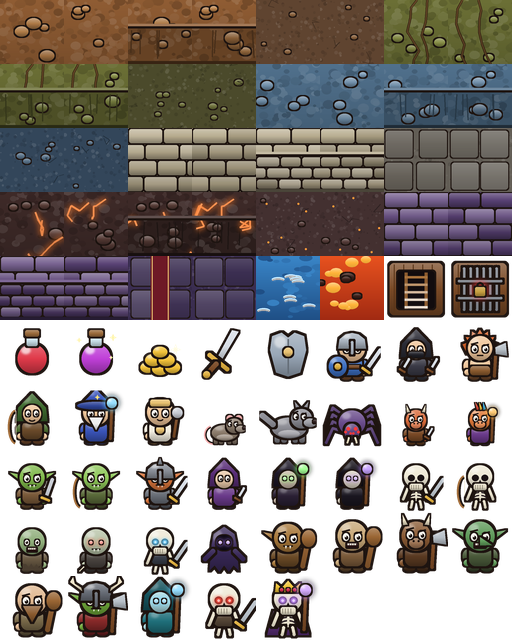
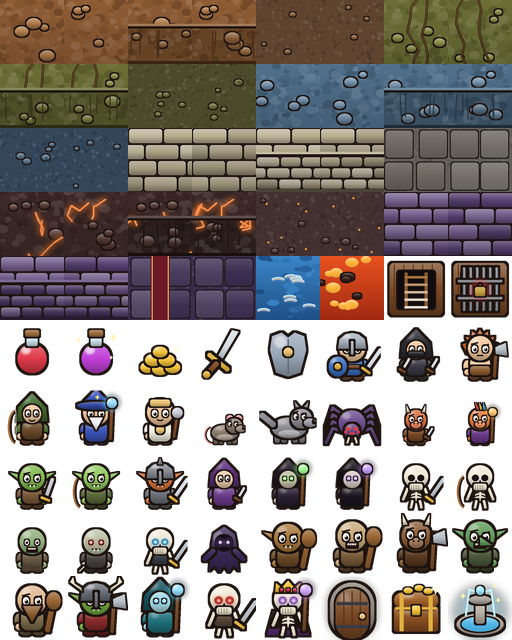
R-27, D-20: hidden sanctuaries with treasure/potions, safe from monsters, heal inside
- DungeonGen carves 0-3 secret rooms (floors 1-19) behind a secret door
- Find by bumping, passive Perception, or Wait to search; draft hint nearby
- Monsters can't enter or attack inside; hero heals 10%/turn, poison ends;
  no attacks or harmful spells from inside
- Treasure chest item; door, chest and fountain tiles; ASCII glyphs
- Saved with the run; testing.html section Q; README

Claude-Session: https://claude.ai/code/session_019fFyhXu1pJcYs3JJHabAbh

Changed region(s): [[0.625, 0.9062, 1.0, 1.0]]

diff --git a/testing.html b/testing.html
@@ -100,7 +100,7 @@
 
 <script>
 // TILE_ATLAS:BEGIN (written by tools/make_tiles.py - tile name -> atlas index)
-window.TILE_ATLAS = {cell: 64, cols: 8, width: 512, height: 640, index: {"cellars_top_a": 0, "cellars_top_b": 1, "cellars_face_a": 2, "cellars_face_b": 3, "cellars_floor_a": 4, "cellars_floor_b": 5, "warrens_top_a": 6, "warrens_top_b": 7, "warrens_face_a": 8, "warrens_face_b": 9, "warrens_floor_a": 10, "warrens_floor_b": 11, "caverns_top_a": 12, "caverns_top_b": 13, "caverns_face_a": 14, "caverns_face_b": 15, "caverns_floor_a": 16, "caverns_floor_b": 17, "crypts_top_a": 18, "crypts_top_b": 19, "crypts_face_a": 20, "crypts_face_b": 21, "crypts_floor_a": 22, "crypts_floor_b": 23, "forge_top_a": 24, "forge_top_b": 25, "forge_face_a": 26, "forge_face_b": 27, "forge_floor_a": 28, "forge_floor_b": 29, "throne_top_a": 30, "throne_top_b": 31, "throne_face_a": 32, "throne_face_b": 33, "throne_floor_a": 34, "throne_floor_b": 35, "water": 36, "lava": 37, "stairs": 38, "sealed": 39, "potion": 40, "greater": 41, "gold": 42, "weapon": 43, "armor": 44, "hero_fighter": 45, "hero_rogue": 46, "hero_barbarian": 47, "hero_ranger": 48, "hero_wizard": 49, "hero_cleric": 50, "m_rat": 51, "m_wolf": 52, "m_spider": 53, "m_kobold": 54, "m_kobold_shaman": 55, "m_goblin": 56, "m_goblin_archer": 57, "m_hobgoblin": 58, "m_cult_acolyte": 59, "m_dark_adept": 60, "m_necromancer": 61, "m_skeleton": 62, "m_skeleton_archer": 63, "m_zombie": 64, "m_ghoul": 65, "m_wight": 66, "m_wraith": 67, "m_bugbear": 68, "m_ogre": 69, "m_minotaur": 70, "m_troll": 71, "m_giant": 72, "m_warchief": 73, "m_oracle": 74, "m_bone_warden": 75, "m_hollow_king": 76}};
+window.TILE_ATLAS = {cell: 64, cols: 8, width: 512, height: 640, index: {"cellars_top_a": 0, "cellars_top_b": 1, "cellars_face_a": 2, "cellars_face_b": 3, "cellars_floor_a": 4, "cellars_floor_b": 5, "warrens_top_a": 6, "warrens_top_b": 7, "warrens_face_a": 8, "warrens_face_b": 9, "warrens_floor_a": 10, "warrens_floor_b": 11, "caverns_top_a": 12, "caverns_top_b": 13, "caverns_face_a": 14, "caverns_face_b": 15, "caverns_floor_a": 16, "caverns_floor_b": 17, "crypts_top_a": 18, "crypts_top_b": 19, "crypts_face_a": 20, "crypts_face_b": 21, "crypts_floor_a": 22, "crypts_floor_b": 23, "forge_top_a": 24, "forge_top_b": 25, "forge_face_a": 26, "forge_face_b": 27, "forge_floor_a": 28, "forge_floor_b": 29, "throne_top_a": 30, "throne_top_b": 31, "throne_face_a": 32, "throne_face_b": 33, "throne_floor_a": 34, "throne_floor_b": 35, "water": 36, "lava": 37, "stairs": 38, "sealed": 39, "potion": 40, "greater": 41, "gold": 42, "weapon": 43, "armor": 44, "hero_fighter": 45, "hero_rogue": 46, "hero_barbarian": 47, "hero_ranger": 48, "hero_wizard": 49, "hero_cleric": 50, "m_rat": 51, "m_wolf": 52, "m_spider": 53, "m_kobold": 54, "m_kobold_shaman": 55, "m_goblin": 56, "m_goblin_archer": 57, "m_hobgoblin": 58, "m_cult_acolyte": 59, "m_dark_adept": 60, "m_necromancer": 61, "m_skeleton": 62, "m_skeleton_archer": 63, "m_zombie": 64, "m_ghoul": 65, "m_wight": 66, "m_wraith": 67, "m_bugbear": 68, "m_ogre": 69, "m_minotaur": 70, "m_troll": 71, "m_giant": 72, "m_warchief": 73, "m_oracle": 74, "m_bone_warden": 75, "m_hollow_king": 76, "door": 77, "chest": 78, "fountain": 79}};
 // TILE_ATLAS:END
 </script>
 <script>
@@ -244,6 +244,16 @@ const SECTIONS = [
     ["P-03", "D-17", "Unpack the tar.gz in a temp folder and list it.", "Contains hollow-king.x86_64 (executable), LICENSE, LICENSES.md, icon.png, README.txt; <code>./hollow-king.x86_64</code> starts the game."],
     ["P-04", "R-25", "Run <code>cd builds/release && sha256sum -c SHA256SUMS</code>.", "Both files report OK."],
     ["P-05", "R-25", "After uploading: open the itch.io page and the GitHub Release while signed out (private window).", "Both are free to download with no sign-in; the itch page shows Linux; the GitHub repo is public (C-15)."],
+  ]},
+  { key: "Q", title: "Q. Hidden sanctuaries (R-27)", intro: "0-3 per floor on floors 1-19. Some floors have none, so check a few floors.", items: [
+    ["Q-01", "D-20", "Walk along corridors and room edges on floors 1-4.", "Now and then the log says \"You feel a faint draft... wait (Space) to search.\" The wall itself looks like any other wall."],
+    ["Q-02", "D-20", "When you get the draft message, press Space a few times; on another one, walk straight into the walls nearby instead.", "Search shows a Perception roll; a success (or bumping the right wall) opens a wooden door with a gold glow behind it. A Cleric or Ranger often finds it just by standing next to it."],
+    ["Q-03", "R-27", "Go inside.", "Golden glowing floor, a fountain in the middle, and a treasure chest and/or potions. Log: \"You step into a sanctuary...\".", ["door", "fountain", "chest"]],
+    ["Q-04", "R-27", "Pick up the chest and potions.", "Chest gives a large pile of gold (25-50 x floor); potions add to your count."],
+    ["Q-05", "R-27", "Get hurt (or poisoned), lead monsters to the sanctuary and step inside; wait several turns.", "Monsters stop at the door, never attack or cast at you, and wander off. You heal about 10% of max HP per turn until full; poison ends."],
+    ["Q-06", "D-20", "From inside (or the doorway), try to attack, shoot, or cast an attack spell at a monster outside; then cast a healing spell.", "Attacks are refused (\"The sanctuary's peace...\") with no turn used; Healing Word / Cure Wounds still work."],
+    ["Q-07", "R-27", "Right-click the fountain, the glowing floor and the door; then save and quit inside a sanctuary and Continue.", "Each gets a description. After Continue the door is still open, the room still glows and healing still works."],
+    ["Q-08", "R-27", "Switch Display to ASCII.", "Door is +, fountain is {, chest is =, sanctuary floor is gold."],
   ]},
 ];
 

diff --git a/tools/make_tiles.py b/tools/make_tiles.py
@@ -412,6 +412,60 @@ def armor_icon():
     return img
 
 
+# --------------------------------------------------------------------------- sanctuaries (R-27)
+
+def secret_door():
+    """Arched wooden door set in a stone frame, warm light leaking round the edges."""
+    img = canvas()
+    g = Image.new("L", (S, S), 0)
+    ImageDraw.Draw(g).rounded_rectangle([30, 20, 226, 250], radius=90, fill=150)
+    img.paste(Image.new("RGBA", (S, S), C("ffd27a")), (0, 0), g.filter(ImageFilter.GaussianBlur(14)))
+    shape(img, "rrect", [40, 26, 216, 250], C("8a8378"), radius=88, w=OW)              # stone arch
+    shape(img, "rrect", [62, 50, 194, 250], C("7a4a26"), radius=66, w=7, gloss=0.2)     # door leaf
+    d = ImageDraw.Draw(img)
+    for x in (95, 128, 161):                                                           # planks
+        d.line([(x, 60), (x, 246)], fill=C("5a3518"), width=5)
+    for y in (104, 196):                                                               # iron bands
+        d.rectangle([66, y, 190, y + 12], fill=C("3a3a42"))
+    shape(img, "ellipse", [158, 150, 180, 172], C("e8c170"), w=5, gloss=0.6)          # ring handle
+    return img
+
+
+def chest():
+    img = canvas()
+    shape(img, "rrect", [40, 116, 216, 222], C("8a4f22"), radius=12, w=OW, gloss=0.2)   # body
+    shape(img, "rrect", [40, 66, 216, 128], C("a0602a"), radius=40, w=OW, gloss=0.4)    # lid
+    d = ImageDraw.Draw(img)
+    for x in (70, 186):                                                                # gold bands
+        d.rectangle([x - 8, 70, x + 8, 220], fill=C("e0b040"))
+    d.rectangle([44, 124, 212, 134], fill=C("e0b040"))
+    shape(img, "rrect", [112, 118, 144, 156], C("f2c23a"), radius=6, w=6, gloss=0.5)   # lock
+    for x, y in [(96, 58), (140, 48), (176, 60)]:                                       # coins peeking out
+        shape(img, "ellipse", [x - 18, y - 12, x + 18, y + 12], C("f2c23a"), w=5, gloss=0.6)
+    d = ImageDraw.Draw(img)
+    d.polygon([(206, 30), (212, 46), (228, 52), (212, 58), (206, 74), (200, 58), (184, 52), (200, 46)], fill=C("fffbe0"))
+    return img
+
+
+def fountain():
+    img = canvas()
+    g = Image.new("L", (S, S), 0)
+    ImageDraw.Draw(g).ellipse([20, 40, 236, 250], fill=140)
+    img.paste(Image.new("RGBA", (S, S), C("9fe8ff")), (0, 0), g.filter(ImageFilter.GaussianBlur(18)))
+    shape(img, "ellipse", [34, 150, 222, 236], C("a8a196"), w=OW)                    # basin rim
+    shape(img, "ellipse", [54, 162, 202, 222], C("4fb6e8"), w=5, top=0.4, bot=0.1)   # water
+    shape(img, "rrect", [110, 92, 146, 190], C("bdb6a8"), radius=10, w=7)            # pillar
+    shape(img, "ellipse", [84, 78, 172, 112], C("a8a196"), w=7)                      # top bowl
+    d = ImageDraw.Draw(img)
+    for x0, x1 in [(100, 70), (156, 186)]:                                             # water arcs
+        d.line([(128, 70), ((x0 + x1) // 2, 54), (x1, 160)], fill=C("bff0ff"), width=8, joint="curve")
+    shape(img, "ellipse", [112, 40, 144, 76], C("9fe8ff"), w=5, gloss=0.8)           # spout
+    for (x, y, r) in [(60, 80, 12), (200, 96, 10), (186, 40, 8)]:                      # sparkles
+        d.polygon([(x, y - r), (x + r * 0.3, y - r * 0.3), (x + r, y), (x + r * 0.3, y + r * 0.3),
+                   (x, y + r), (x - r * 0.3, y + r * 0.3), (x - r, y), (x - r * 0.3, y - r * 0.3)], fill=C("fff3b0"))
+    return img
+
+
 # --------------------------------------------------------------------------- characters
 
 def feet(img, col, y=212, spread=26):
@@ -815,6 +869,9 @@ def main():
         add(f"hero_{cls}", resized(hero(cls), 0.9))
     for key, img in monsters().items():
         add(f"m_{key}", img)
+    add("door", secret_door())      # R-27
+    add("chest", chest())
+    add("fountain", fountain())
 
     rows = (len(TILES) + COLS - 1) // COLS
     atlas = Image.new("RGBA", (COLS * CELL, rows * CELL), (0, 0, 0, 0))

diff --git a/claude-requirements.md b/claude-requirements.md
@@ -54,6 +54,7 @@ A roguelike game for **Linux desktop** (D-14; originally planned for Google Play
 | R-24 | Installable on any x86_64 Linux distro that has Flatpak, with its dependencies installed automatically | Done: built and played on Jim's Fedora machine 2026-11-23 | Single file `hollow-king.flatpak`; installing it pulls the Freedesktop runtime from Flathub (D-16). From B-11. |
 | R-25 | Free public release: downloadable at no cost from itch.io and GitHub Releases | In progress: licences and `tools/build.sh release` in repo; first upload pending | Two downloads per version: `hollow-king-<ver>-linux-x86_64.tar.gz` (plain binary) and `hollow-king-<ver>.flatpak`, plus `SHA256SUMS` (D-17). |
 | R-26 | Background music in a cheesy, 90s General-MIDI style | Built; awaiting Jim's playtest | Asked for by Jim 2026-11-23. A looping track for the title screen, one per area, and a boss track. Music on/off and volume in Settings; `M` toggles it. See 5.8, D-18. |
+| R-27 | Hidden sanctuaries: 0-3 secret rooms per floor holding treasure and/or healing potions; monsters can't enter them and the hero heals inside | Built; awaiting Jim's playtest | Asked for by Jim 2026-11-28. Floors 1-19. See 5.11, D-20. |
 
 ---
 
@@ -80,6 +81,7 @@ A roguelike game for **Linux desktop** (D-14; originally planned for Google Play
 | D-17 | Open-source licences | Code: **MIT** (`LICENSE`). Original art, sound and text: **CC-BY-4.0**. Rules text: SRD 5.2.1 under CC-BY-4.0 (C-04). Godot Engine: MIT, notice shown on Credits (C-14). Summary in `LICENSES.md`; metainfo `project_license` = `MIT AND CC-BY-4.0`. Chosen by Jim 2026-11-23 | 2026-11-23 |
 | D-18 | How music is made | Original, composed and synthesized by `tools/make_music.py` (numpy + ffmpeg) with GM-style instruments (brass, strings, harpsichord, organ, flute, square lead, slap-ish bass, drum kit, orchestra hit). Saved as looping mono OGG (`audio/music_*.ogg`), so no MIDI player is needed in Godot. Same licence as other assets (D-17). | 2026-11-23 |
 | D-19 | Tougher level-1 heroes | +6 max HP at level 1 on top of the SRD formula (house rule, see 5.7). Asked for by Jim 2026-11-23: level-1 heroes died too easily. Existing saved runs keep their old HP | 2026-11-23 |
+| D-20 | How sanctuaries work | Hidden behind a secret door that looks like wall. Found by **bumping** the wall, by **passive Perception** (10 + WIS + proficiency for Rogue/Ranger) ≥ 13 when next to it, or by **searching** (Wait/Space within 2 squares: d20 + WIS (+prof) vs DC 13). A "faint draft" message hints when you pass within 2 squares. Inside (and in the doorway): monsters can't enter or attack you and lose interest; you heal 10% of max HP (min 1) per turn and poison ends. The peace works both ways: no attacks or harmful spells from inside (healing spells allowed). Unlimited healing is deliberate (Jim's request); time doesn't pass elsewhere, so it doesn't make monsters stronger. | 2026-11-28 |
 
 ---
 
@@ -97,6 +99,7 @@ A roguelike game for **Linux desktop** (D-14; originally planned for Google Play
 
 - Maps grow with depth (about 51×36 up to 70×46).
 - Stairs are placed at the farthest reachable square from the start.
+- Floors 1-19 may have 0-3 hidden sanctuaries (R-27, 5.11).
 - Taking the stairs is a **Short Rest**. Arriving on floors **5, 9, 13, 17, 20** gives a **Long Rest**.
 
 ### 5.2 Hero
@@ -171,6 +174,7 @@ A roguelike game for **Linux desktop** (D-14; originally planned for Google Play
 ### 5.5 Items
 - Potion of Healing (2d4+2) and Greater Healing (4d4+4).
 - Gold.
+- Treasure chest (sanctuaries only, R-27): 25-50 × floor number gold.
 - Weapon and armor upgrades from +1 to +3.
 
 ### 5.6 Saving (R-09)
@@ -183,6 +187,7 @@ A roguelike game for **Linux desktop** (D-14; originally planned for Google Play
 ### 5.7 Deliberate simplifications of the rules
 - One square per turn. Every awake monster acts once per hero turn, with no initiative order.
 - No death saves.
+- Searching for secret doors is the Wait action; passive Perception uses proficiency only for Rogue and Ranger (D-20).
 - Heroes start with 6 extra HP at level 1 (D-19), a house rule to soften the deadly early floors.
 - Spell slots are a single pool, not tracked by spell level. Leveled spells are always cast at your highest available slot level.
 - Areas are measured in squares (1 square = 5 ft); cones aim at your current target.
@@ -221,6 +226,13 @@ A roguelike game for **Linux desktop** (D-14; originally planned for Google Play
 - **Mouse:** left-click a neighbouring square to move/attack; left-click a distant explored square to auto-walk; left-click an enemy to select it (casters/Ranger also attack); **right-click** to inspect any square; **mouse wheel** to zoom.
 - **Explore:** auto-walks to the nearest unexplored area or visible item; stops when an enemy appears or you're hurt. When nothing is left, it walks to the stairs.
 - **Map zoom** (Settings, wheel, +/-): Small 41 / Medium 31 / Large 23 squares across. Default Medium.
+### 5.11 Hidden sanctuaries (R-27, D-20)
+- **Count:** 0-3 per floor on floors 1-19 (none on 20). Each is a small 3×3 to 4×4 room carved into solid rock next to a reachable floor square, joined by one secret door.
+- **Contents:** a healing fountain (decoration) in the middle, plus one of: treasure (chest, 30% chance of a weapon or armor upgrade), healing (2 potions; Greater on floor 8+ half the time), or both (chest + 1 potion).
+- **Finding:** bump the wall, passive Perception ≥ 13 when adjacent, or Wait to search within 2 squares (d20 + WIS (+prof for Rogue/Ranger) vs 13). First time within 2 squares: "You feel a faint draft..." hint.
+- **Safety:** monsters never step into the room or doorway, never attack or cast at a hero inside it, and wander off. The hero heals 10% of max HP (min 1) per turn there and poison ends. No attacks or harmful spells from inside.
+- **Look:** wooden door in the wall once found; warm golden glow over the room's floor; fountain tile in the centre. ASCII: `+` door, gold floor dots, `{` fountain, `=` chest.
+
 ---
 
 ## 6. Constraints (platform and legal)
@@ -296,3 +308,4 @@ A roguelike game for **Linux desktop** (D-14; originally planned for Google Play
 | 2026-11-23 | 5.10: status text (floor, HP, AC, XP, gold) is bright red at Jim's request. |
 | 2026-11-23 | 5.10 corrected: only the status **values** are bright red; labels (Floor, HP, AC, XP, Gold) keep their normal colour. |
 | 2026-11-28 | R-21: quitting (Quit button, Esc on title, window X) stops and releases music/sound first, so the terminal shows no leak warnings at exit. |
+| 2026-11-28 | R-27 hidden sanctuaries added (D-20, 5.11); 5.1, 5.5, 5.7 updated; 3 new tiles (door, chest, fountain). |

diff --git a/README.md b/README.md
@@ -53,6 +53,7 @@ Saves and settings live in `~/.local/share/godot/app_userdata/Depths of the Holl
 | **Items** | Healing / Greater Healing potions, gold, +1/+2/+3 weapons and armor. |
 | **Save / resume** | Autosaves after every action and when the window loses focus or closes. **Continue** on the title screen. The save is deleted on death or victory (permadeath), and the dice state is saved, so quitting can't reroll bad luck. |
 | **Graphics** | Warm, chunky cartoon art in the spirit of Spelunky 2, all original: textured rock walls with front faces, a look per area, a sprite for every class and monster, shadows, torchlight and a gentle idle bob. ASCII mode is still one switch away. |
+| **Hidden sanctuaries** | 0-3 secret rooms per floor (floors 1-19) behind hidden doors: treasure chests and/or potions, a healing fountain, and no monsters allowed. Find them by bumping walls, searching (Space) or a keen eye. |
 | **Sound, music, settings** | 15 original sound effects; cheesy 90s-MIDI-style background music (title, one track per area, boss), crossfaded; `M` toggles music. **Settings** (title screen or pause menu): sound, music, music volume, tiles, map zoom, fullscreen; remembered between sessions. |
 | **Desktop UX** | Map across the top; under it a strip with status, message log and buttons (each labelled with its key). **Explore** auto-walks to unexplored areas. Resizable window, F11 fullscreen. In-game **Controls** screen (? / F1) lists every key, click and map symbol. |
 
